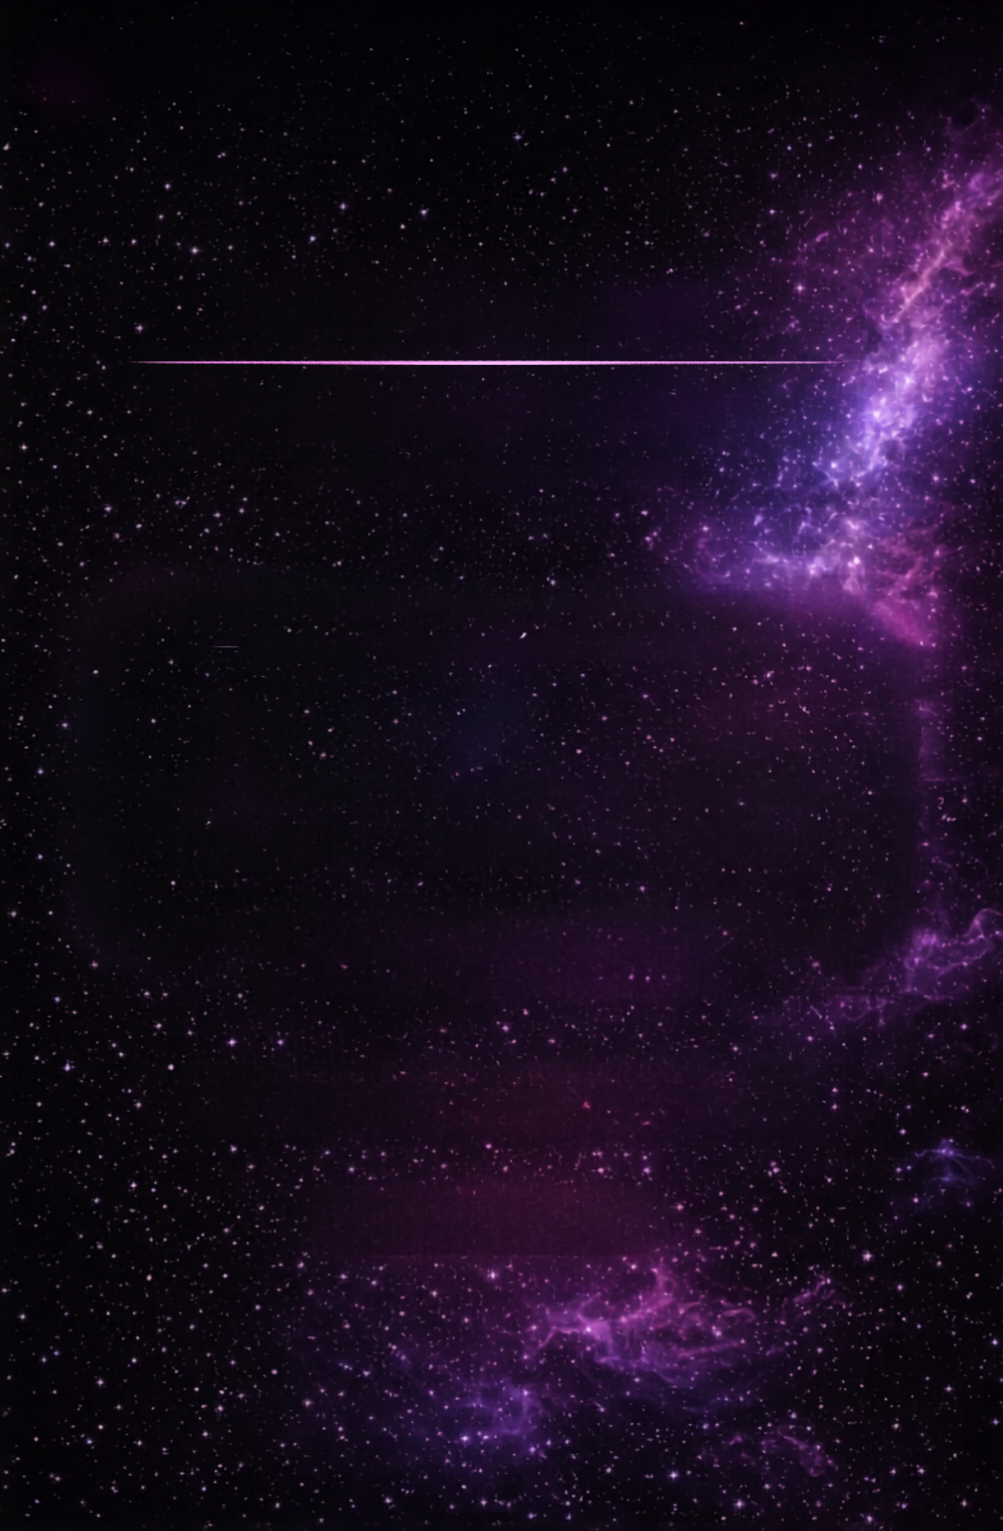
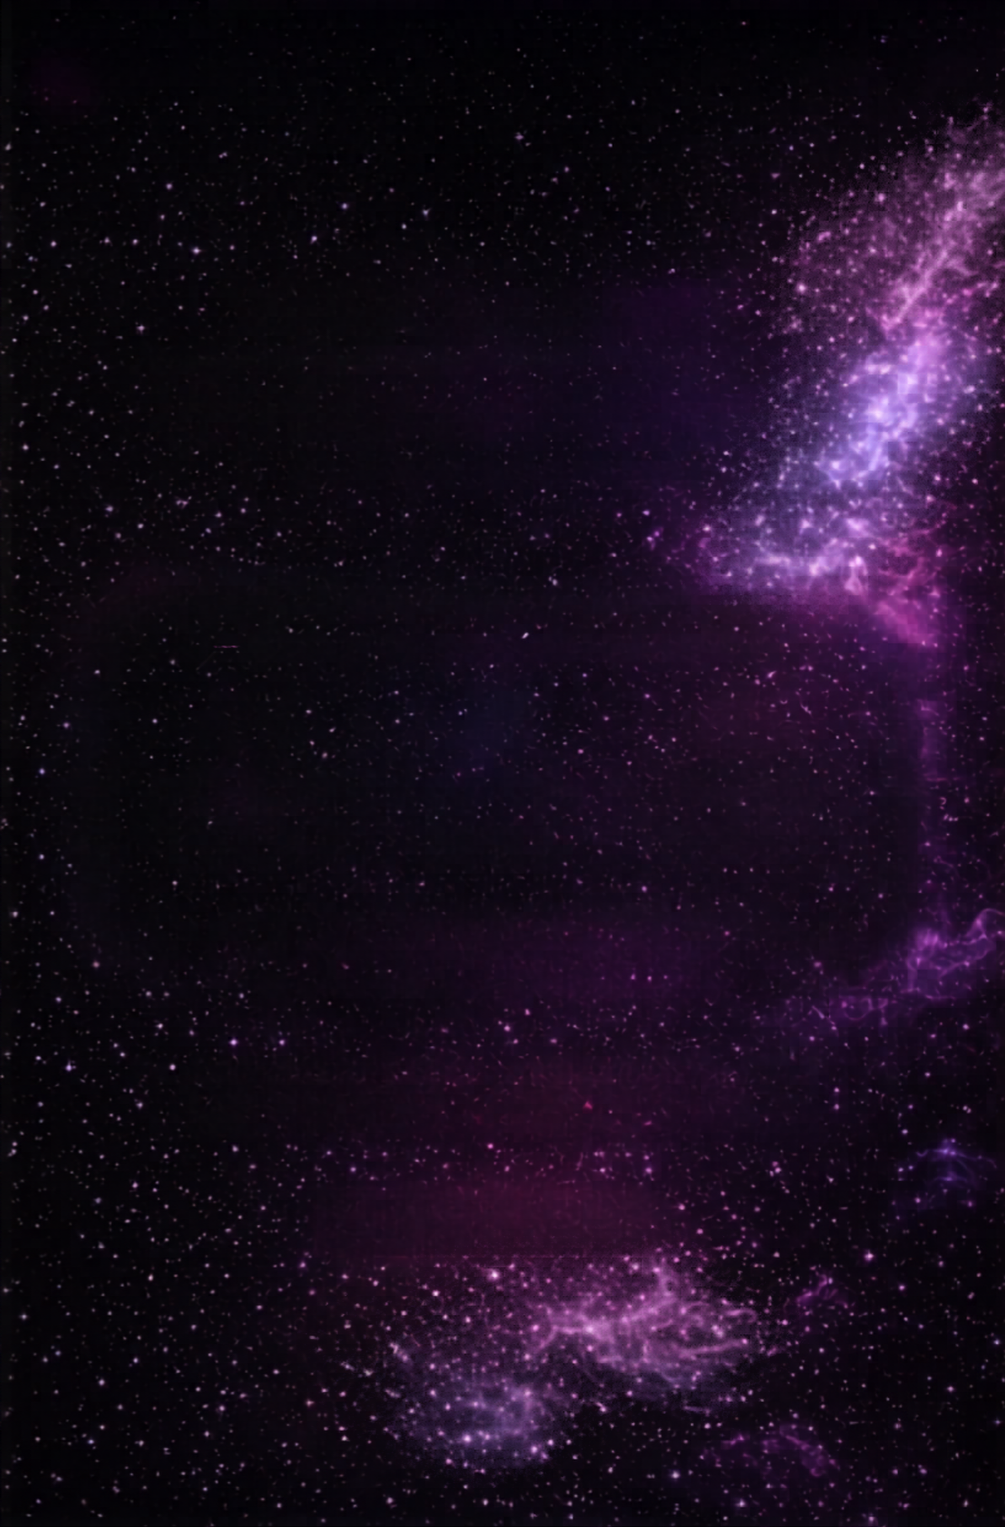
refont

diff --git a/src/Assets/styles/Header/Header.css b/src/Assets/styles/Header/Header.css
@@ -12,30 +12,36 @@
   justify-content: space-between;
   align-items: center;
   width: 100%;
-  padding: 0.5rem 1.5rem;
+  padding: 1rem;
   background-color: rgba(4, 2, 10, 0.88);
   box-sizing: border-box;
 }
 
 /* ── Ligne lumineuse entre h1 et h2 ── */
 .header-glow-line {
-  width: 75%;
+  width: 80%;
   height: 1px;
   background: linear-gradient(
     to right,
     transparent 0%,
-    rgba(253, 129, 212, 0.5) 15%,
-    rgba(240, 100, 220, 0.9) 40%,
-    rgba(192, 80, 255, 0.8) 65%,
-    transparent 100%
+    rgba(235, 105, 242, 0.08) 1%,
+    rgba(235, 105, 242, 0.22) 2%,
+    rgba(235, 110, 243, 0.48) 3.5%,
+    rgba(235, 115, 244, 0.75) 5.5%,
+    rgba(235, 145, 248, 0.9) 10%,
+    rgba(235, 150, 248, 0.92) 22%,
+    rgba(248, 225, 255, 0.97) 42%,
+    rgba(235, 150, 248, 0.92) 60%,
+    rgba(225, 170, 250, 0.82) 78%,
+    rgba(215, 155, 242, 0.55) 93%,
+    transparent 98%
   );
   box-shadow:
-    0 0 6px rgba(253, 129, 212, 0.8),
-    0 0 16px rgba(200, 80, 240, 0.5),
-    0 0 30px rgba(160, 50, 220, 0.3);
-  margin-top: -0.7rem;
-  margin-bottom: 0.2rem;
+    0 0 2px rgba(190, 160, 255, 0.3);
+  margin-top: -0.8rem;
+  margin-bottom: 0.5rem;
 }
+
 
 /* ── Titres centrés en dessous ── */
 .headerTitles {
@@ -59,10 +65,10 @@ h1, h2, h3, p {
   font-weight: 400;
   font-family: 'Orbitron', sans-serif;
   letter-spacing: 5px;
-  color: #f7a8e0;
+  color: #c084fc;
   text-shadow:
-    0 0 12px rgba(247, 168, 224, 0.7),
-    0 0 30px rgba(247, 168, 224, 0.4);
+    0 0 12px rgba(192, 132, 252, 0.5),
+    0 0 30px rgba(168, 85, 247, 0.3);
   position: relative;
   top: -10px;
 }
@@ -74,11 +80,11 @@ h1, h2, h3, p {
   font-size: 1.8rem;
   letter-spacing: 5px;
   text-transform: uppercase;
-  color: #c084fc;
+  color: #f7a8e0;
   text-shadow:
-    0 0 18px #a855f7,
-    0 0 40px #7c3aed,
-    0 0 70px #6d28d960;
+    0 0 10px rgba(247, 168, 224, 0.9),
+    0 0 25px rgba(247, 168, 224, 0.7),
+    0 0 55px rgba(247, 168, 224, 0.4);
 }
 
 .accueil-page header .titre3,
@@ -88,6 +94,12 @@ h1, h2, h3, p {
   font-style: italic;
   text-align: center;
   color: #c084fc;
+}
+
+@media (max-width: 950px) {
+  .headerTitles {
+    padding-top: 3.5rem;
+  }
 }
 
 @media (max-width: 900px) {
@@ -112,32 +124,34 @@ h1, h2, h3, p {
   }
   .accueil-page h1,
   .projet-page h1 {
-    font-size: 1.3rem;
+    font-size: 1.5rem;
   }
   .accueil-page header h2 {
-    font-size: 0.8rem;
+    font-size: 1.2rem;
+  }
+  .accueil-page header .titre3 {
+    font-size: 1.2rem;
+  }
+}
+
+@media (max-width: 550px) {
+  .accueil-page h1 {
+    font-size: 1rem;
+  }
+  .accueil-page header h2 {
+    font-size: 0.9rem;
   }
   .accueil-page header .titre3 {
     font-size: 1rem;
   }
 }
 
-@media (max-width: 500px) {
-  .accueil-page h1 {
-    font-size: 0.9rem;
-  }
-  .accueil-page header h2 {
-    text-transform: none;
-    font-size: 0.9rem;
-  }
-}
-
-@media (max-width: 455px) {
+@media (max-width: 450px) {
   .accueil-page header h2 {
     font-size: 0.8rem;
   }
   .accueil-page header .titre3 {
-    font-size: 0.7rem;
+    font-size: 1rem;
   }
 }
 
@@ -149,6 +163,7 @@ h1, h2, h3, p {
     font-size: 0.7rem;
   }
 }
+
 
 @media (max-width: 400px) {
   .accueil-page header h2 {

diff --git a/src/Composants/BackgroundBody.jsx b/src/Composants/BackgroundBody.jsx
@@ -1,34 +1,19 @@
-import { useEffect, useRef } from "react";
+import bgImage from "../Assets/images/Background.png";
 
 export default function BackgroundBody() {
-  const canvasRef = useRef(null);
-
-  useEffect(() => {
-    const canvas = canvasRef.current;
-    const ctx = canvas.getContext("2d");
-
-    function resize() {
-      canvas.width  = window.innerWidth;
-      canvas.height = window.innerHeight;
-      ctx.fillStyle = "#04020a";
-      ctx.fillRect(0, 0, canvas.width, canvas.height);
-    }
-
-    resize();
-    window.addEventListener("resize", resize);
-    return () => window.removeEventListener("resize", resize);
-  }, []);
-
   return (
-    <canvas
-      ref={canvasRef}
+    <img
+      src={bgImage}
+      aria-hidden="true"
+      alt=""
       style={{
-        position:      "fixed",
-        top:           0,
-        left:          0,
-        width:         "100%",
-        height:        "100%",
-        zIndex:        0,
+        position:   "fixed",
+        top:        0,
+        left:       0,
+        width:      "100%",
+        height:     "100%",
+        objectFit:  "cover",
+        zIndex:     0,
         pointerEvents: "none",
       }}
     />

diff --git a/src/i18n.js b/src/i18n.js
@@ -8,7 +8,7 @@ const resources = {
     translation: {
       header: {
         subtitle: "Développeuse front-end",
-        tagline: "UI, Motion & Création visuelle assistée par IA",
+        tagline: "UI, Motion & Création visuelle",
         language: "Langue",
       },
       nav: {
@@ -93,7 +93,7 @@ const resources = {
     translation: {
       header: {
         subtitle: "Front-end Developer",
-        tagline: "UI, Motion & Visual creation (IA assisted)",
+        tagline: "UI, Motion & Visual creation",
         language: "Language",
       },
       nav: {
